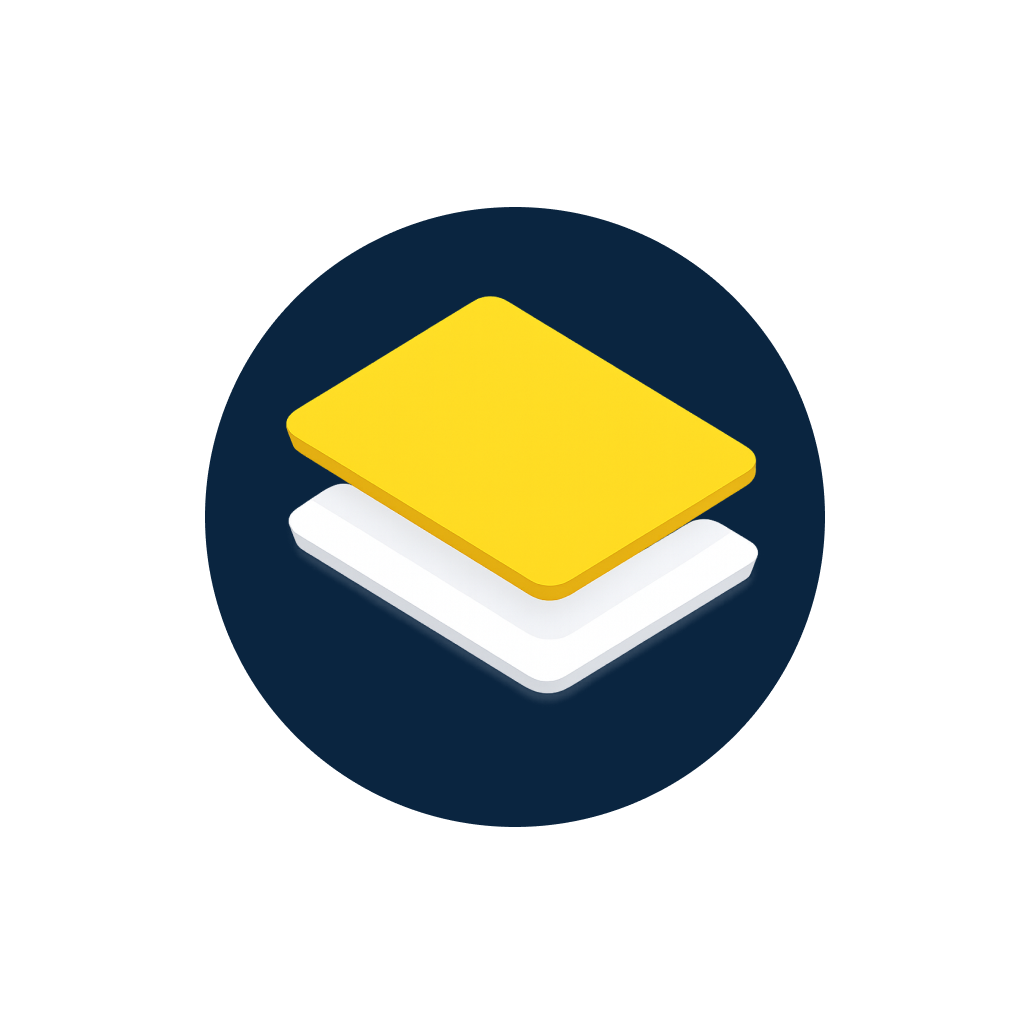
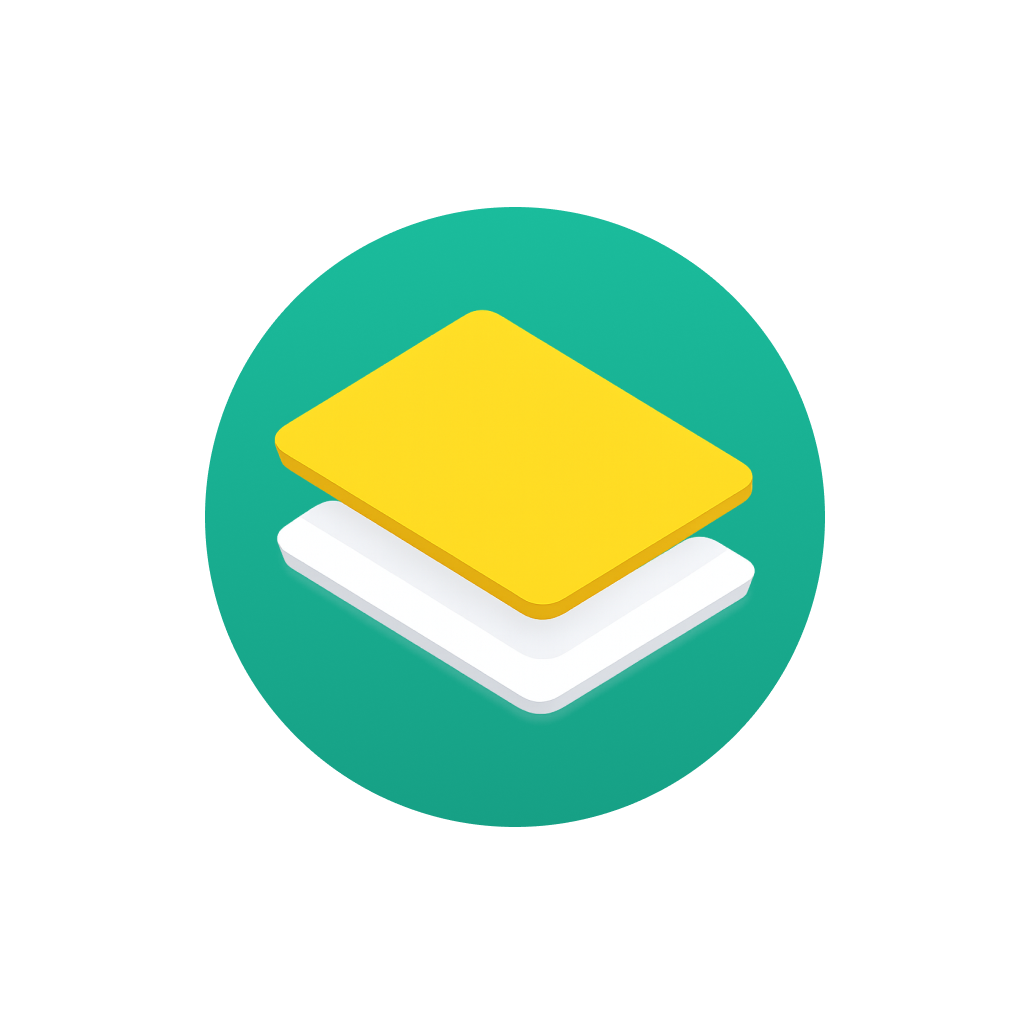
WIP

Changed region(s): [[0.1875, 0.1875, 0.8125, 0.8125]]

diff --git a/apps/mobile/components/modals/CaptureModal.tsx b/apps/mobile/components/modals/CaptureModal.tsx
@@ -35,7 +35,13 @@ const CaptureModal = ({ isVisible, setIsVisible }: CaptureModalProps) => {
               </Pressable>
             </View>
 
-            <Scanner key={isVisible ? 'open' : 'closed'} onClose={() => setIsVisible(false)} />
+            <Scanner
+              key={isVisible ? 'open' : 'closed'}
+              onClose={() => {
+                console.log('Scanner onClose called, hiding modal');
+                setIsVisible(false);
+              }}
+            />
           </View>
         </View>
       </SafeAreaView>

diff --git a/apps/mobile/app.config.ts b/apps/mobile/app.config.ts
@@ -23,6 +23,7 @@ export default ({ config }: ConfigContext): ExpoConfig => ({
             ],
           },
         ],
+        "ITSAppUsesNonExemptEncryption": false
       }
     },
     android: {
@@ -60,7 +61,7 @@ export default ({ config }: ConfigContext): ExpoConfig => ({
         image: './assets/images/splash-icon.png',
         imageWidth: 200,
         resizeMode: 'contain',
-        backgroundColor: '#0A2540',
+        backgroundColor: '#1ABC9C',
       },
     ],
       "expo-dev-client",

diff --git a/apps/mobile/app/(authenticated)/(tabs)/_layout.tsx b/apps/mobile/app/(authenticated)/(tabs)/_layout.tsx
@@ -26,7 +26,9 @@ export default function TabLayout() {
           headerShown: false,
           tabBarButton: HapticTab,
           tabBarLabelStyle: {
-            fontFamily: "RobotoSlab-Regular",
+            marginTop: 2,
+            fontFamily: "Inter18pt-Regular",
+            fontSize: 12,
           },
         }}
       >
